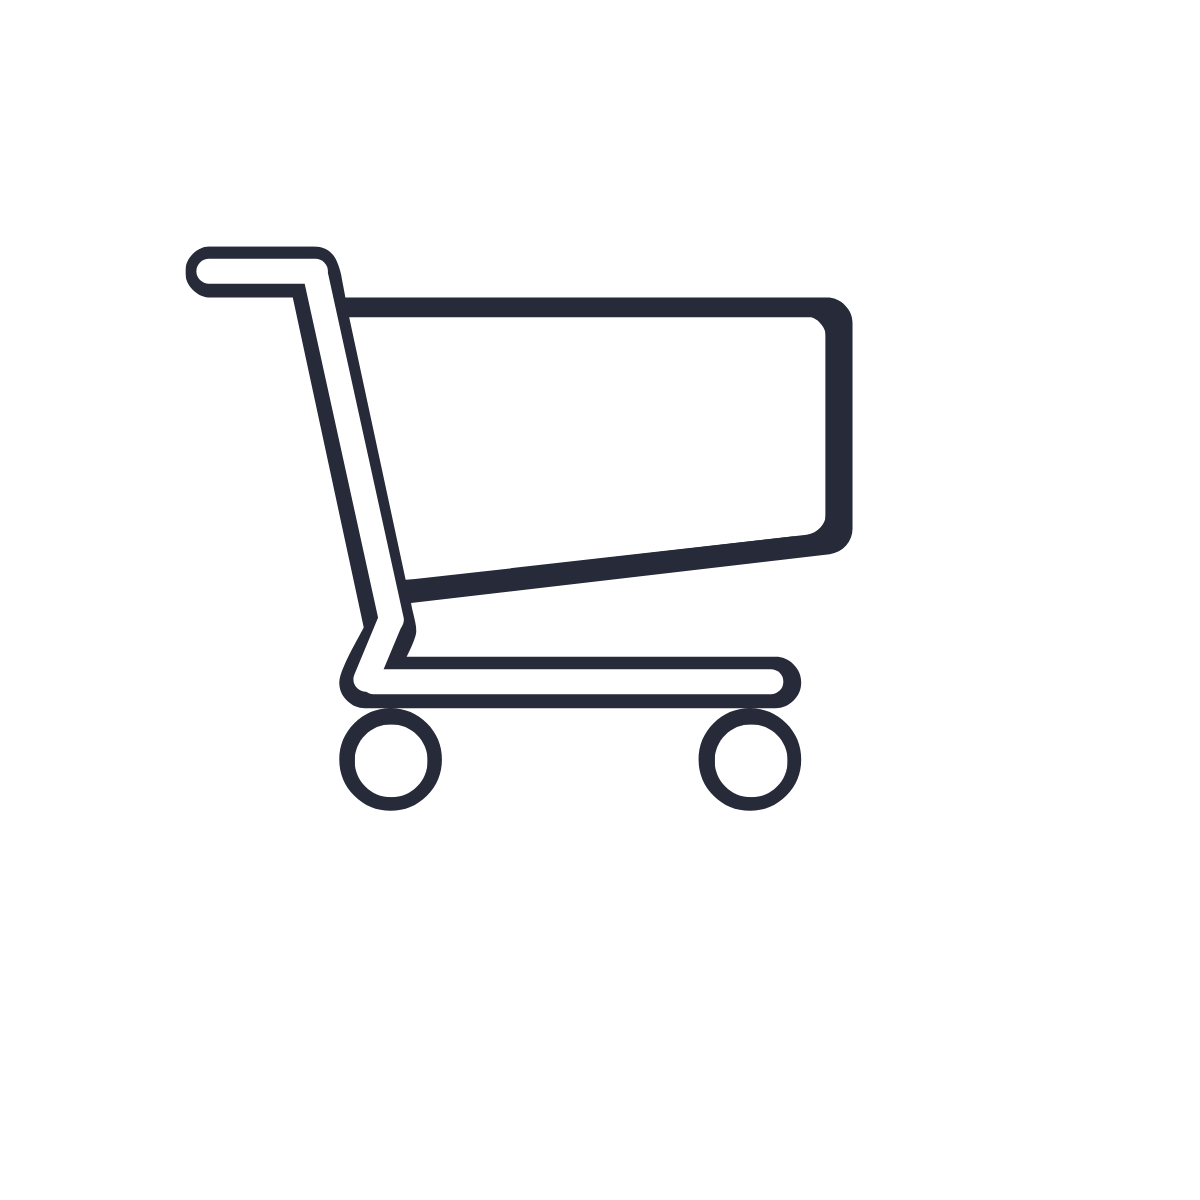
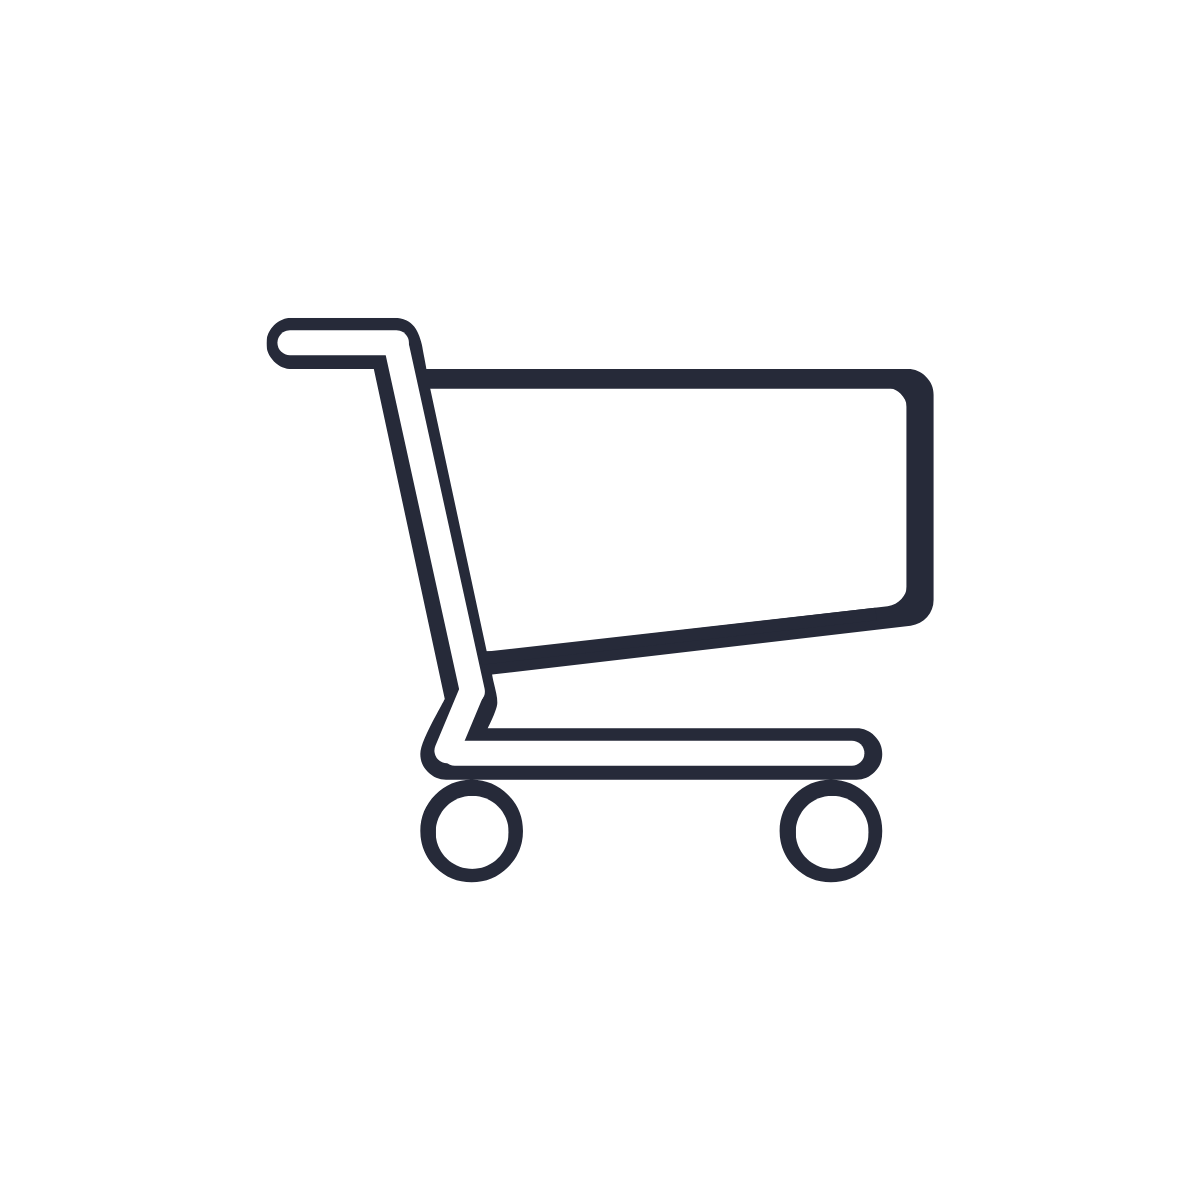
Fix images homepage

Changed region(s): [[0.1542, 0.185, 0.8017, 0.74]]

diff --git a/pages/.ipynb_checkpoints/home-checkpoint.py b/pages/.ipynb_checkpoints/home-checkpoint.py
@@ -12,7 +12,7 @@ icons = {
     "ordering": image_to_base64("images/ordering.png"),
     "transfer": image_to_base64("images/item_report.png"),
     "small": image_to_base64("images/small_order.png"),
-    #"inventory": image_to_base64("images/inventory.png"),
+    "brand": image_to_base64("images/brand.png"),
 }
 
 
@@ -49,28 +49,10 @@ tools = [
         "description": "Generate sales report based on brand and time frame.",
         "status": "Planned",
         "category": "Inventory Tools",
-        "icon": "🔄",
+        "icon": icons["brand"],
         "page": None,
         "enabled": False,
-    },
-    {
-        "title": "Markdown Generator",
-        "description": "Create expiration markdown lists and pricing adjustments.",
-        "status": "Planned",
-        "category": "TBD",
-        "icon": "🏷️",
-        "page": None,
-        "enabled": False,
-    },
-    {
-        "title": "MAP Audit",
-        "description": "Compare item pricing against MAP files and vendor pricing rules.",
-        "status": "Planned",
-        "category": "TBD",
-        "icon": "💲",
-        "page": None,
-        "enabled": False,
-    },
+    }
 ]
 
 

diff --git a/pages/home.py b/pages/home.py
@@ -12,7 +12,7 @@ icons = {
     "ordering": image_to_base64("images/ordering.png"),
     "transfer": image_to_base64("images/item_report.png"),
     "small": image_to_base64("images/small_order.png"),
-    #"inventory": image_to_base64("images/inventory.png"),
+    "brand": image_to_base64("images/brand.png"),
 }
 
 
@@ -49,28 +49,10 @@ tools = [
         "description": "Generate sales report based on brand and time frame.",
         "status": "Planned",
         "category": "Inventory Tools",
-        "icon": "🔄",
+        "icon": icons["brand"],
         "page": None,
         "enabled": False,
-    },
-    {
-        "title": "Markdown Generator",
-        "description": "Create expiration markdown lists and pricing adjustments.",
-        "status": "Planned",
-        "category": "TBD",
-        "icon": "🏷️",
-        "page": None,
-        "enabled": False,
-    },
-    {
-        "title": "MAP Audit",
-        "description": "Compare item pricing against MAP files and vendor pricing rules.",
-        "status": "Planned",
-        "category": "TBD",
-        "icon": "💲",
-        "page": None,
-        "enabled": False,
-    },
+    }
 ]
 
 